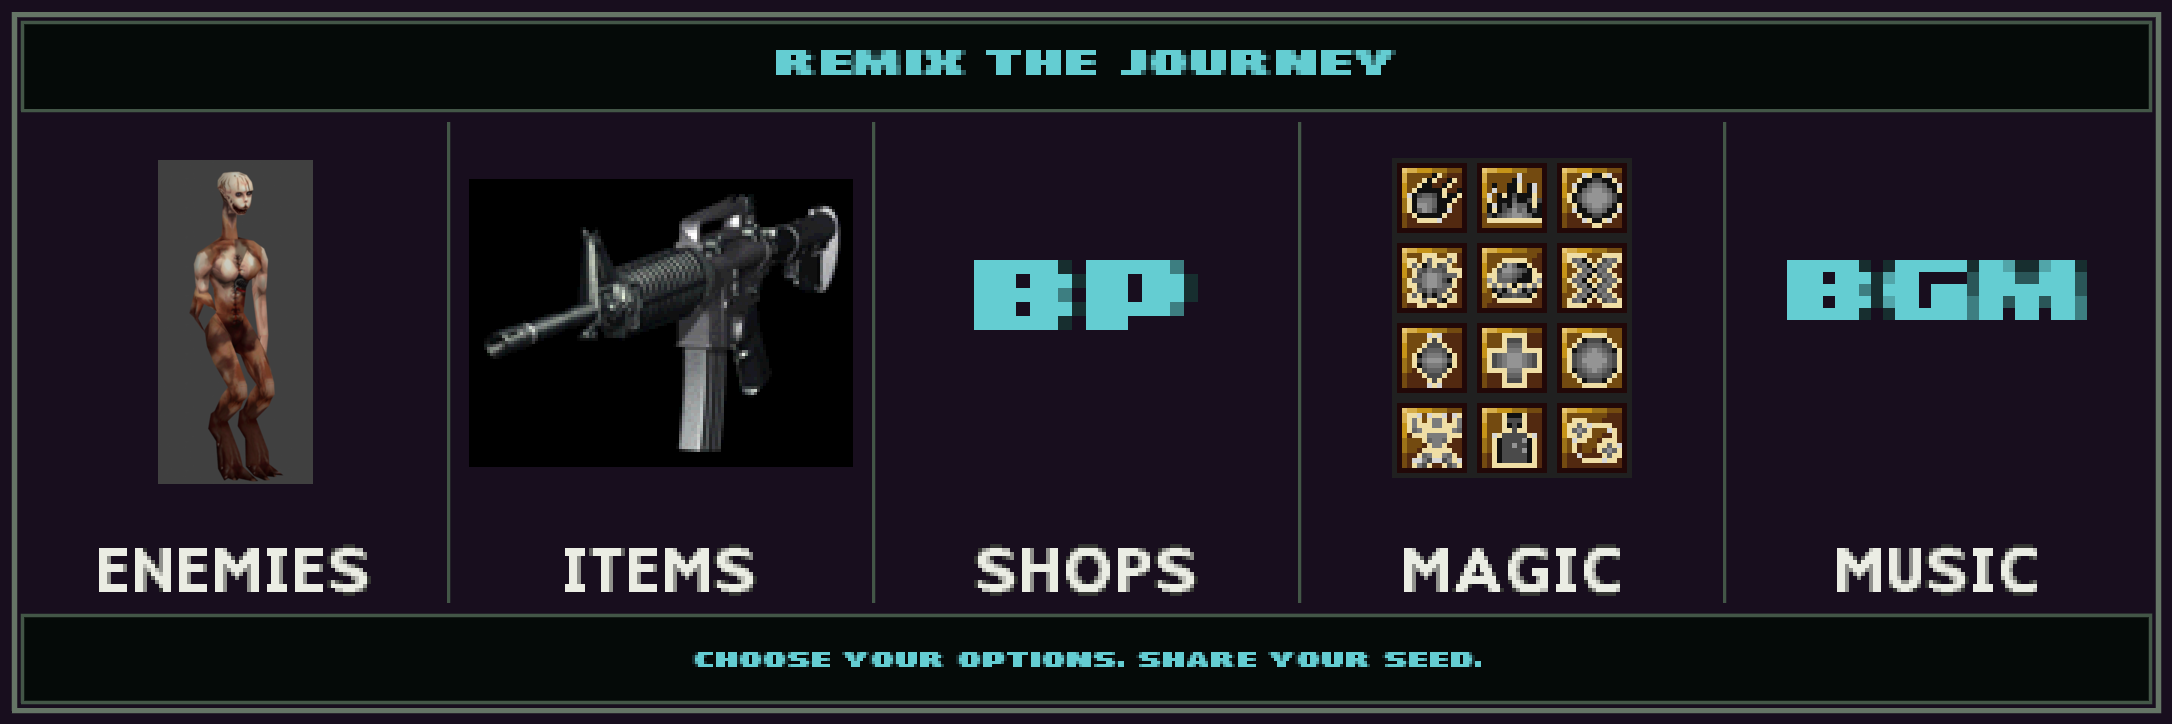
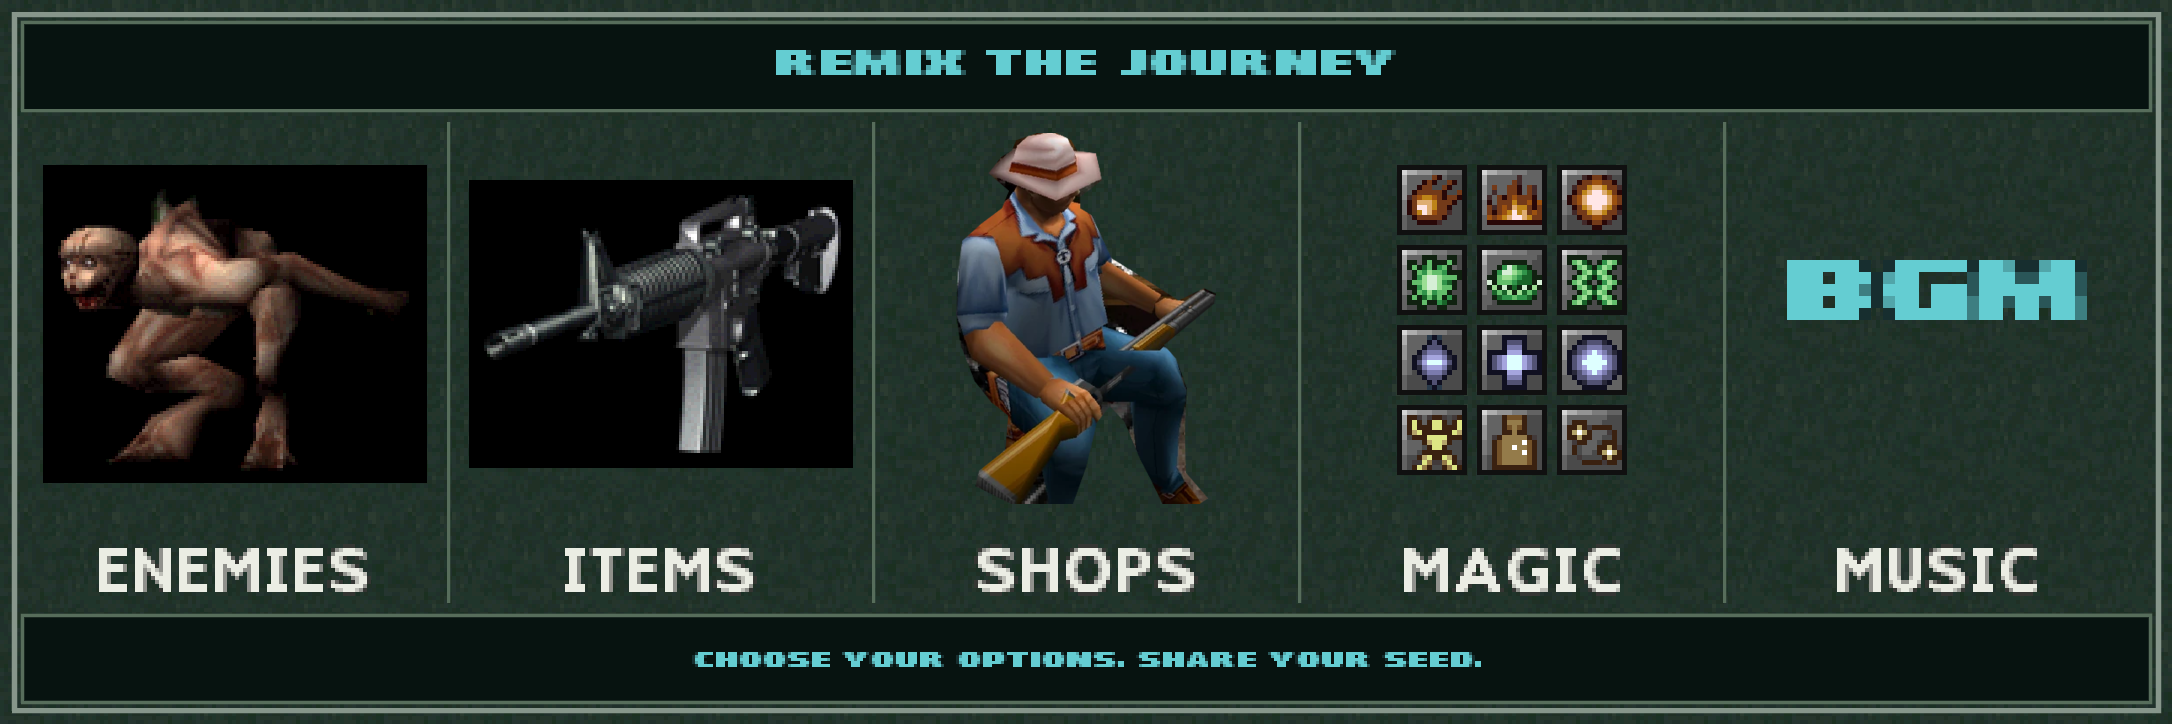
Refine feature panels with retail textures and school palettes

diff --git a/site/style.css b/site/style.css
@@ -1,11 +1,11 @@
 :root {
   color-scheme: dark;
-  --ink: #0c080f;
-  --panel: #210b28;
+  --ink: #08110e;
+  --panel: #203d32;
   --cyan: #65cbd0;
   --green: #2d650e;
   --white: #eeeee2;
-  --muted: #bcb6bd;
+  --muted: #b8c7bc;
   --steel: #747c6d;
 }
 
@@ -21,24 +21,24 @@ a:focus-visible, summary:focus-visible { outline: 3px solid var(--cyan); outline
 .skip-link { position: absolute; left: 24px; top: -100px; padding: .6rem 1rem; background: var(--panel); z-index: 5; }
 .skip-link:focus { top: 10px; }
 .chips { display: flex; flex-wrap: wrap; gap: 10px; margin: 18px 0 30px; }
-.chip { display: inline-flex; align-items: center; gap: .65em; padding: 5px 13px; min-height: 40px; border: 1px solid var(--steel); color: var(--white); text-decoration: none; font-size: .8rem; background: #17101b; }
-.chip:hover { background: #29202e; color: var(--white); }
+.chip { display: inline-flex; align-items: center; gap: .65em; padding: 5px 13px; min-height: 40px; border: 1px solid var(--steel); color: var(--white); text-decoration: none; font-size: .8rem; background: #14261f; }
+.chip:hover { background: #2a4437; color: var(--white); }
 .version { border-color: #607b4c; }
 .status-dot { width: 7px; height: 7px; background: #9ad36d; }
 .chip-detail { color: var(--muted); border-left: 1px solid #5d5b5c; padding-left: .7em; }
 .intro { margin: 0 0 38px; font-size: 1.13rem; line-height: 1.8; color: var(--muted); }
 .intro strong { color: var(--white); font-weight: 400; }
-.panel { position: relative; margin: 0 0 30px; padding: 28px 26px 22px; border: 2px solid var(--steel); background: var(--panel); box-shadow: inset 0 0 0 2px #121313, 0 3px 0 #020303; }
+.panel { position: relative; margin: 0 0 30px; padding: 28px 26px 22px; border: 2px solid var(--steel); background: linear-gradient(#07130d99, #07130d99), url("assets/menu-texture.png") repeat; background-size: auto, 128px 128px; box-shadow: inset 0 0 0 2px #121313, 0 3px 0 #020303; }
 .panel-title { display: table; position: relative; margin: -43px 0 14px; padding: 0 10px; background: var(--ink); color: var(--cyan); font: bold 1.25rem/1.45 'Courier New', Courier, monospace; text-shadow: 2px 2px #183b3e; }
 .panel-intro { margin: 0 0 17px; color: var(--muted); font-size: .87rem; }
 .download-list { margin: 0 -10px; }
-.download-row { display: grid; grid-template-columns: 24px minmax(0,1fr) auto; align-items: center; gap: 15px; min-height: 74px; padding: 11px 14px; border-top: 1px solid #59435c; color: var(--white); text-decoration: none; }
-.download-row:last-child { border-bottom: 1px solid #59435c; }
+.download-row { display: grid; grid-template-columns: 24px minmax(0,1fr) auto; align-items: center; gap: 15px; min-height: 74px; padding: 11px 14px; border-top: 1px solid #496555; color: var(--white); text-decoration: none; }
+.download-row:last-child { border-bottom: 1px solid #496555; }
 .download-row:hover, .download-row:focus-visible { background: var(--green); color: var(--white); }
 .cursor { font-size: 15px; color: #807887; }
 .download-row:hover .cursor, .download-row:focus-visible .cursor { color: var(--white); }
 .platform { font-weight: 700; font-size: 1.1rem; }
-.platform-detail { margin-left: 15px; color: #c7c0ca; font-weight: 400; font-size: .8rem; }
+.platform-detail { margin-left: 15px; color: #c4d0c7; font-weight: 400; font-size: .8rem; }
 .download-row:hover .platform-detail, .download-row:focus-visible .platform-detail { color: var(--white); }
 .download-format { font-size: .8rem; white-space: nowrap; }
 .download-format span { margin-left: 15px; color: var(--cyan); font-size: 1.2rem; }
@@ -49,22 +49,22 @@ a:focus-visible, summary:focus-visible { outline: 3px solid var(--cyan); outline
 .feature-art { display: block; width: 100%; height: auto; margin: 0 0 22px; }
 .feature-art.customization { margin-top: 28px; }
 .feature-list { margin: 0; }
-.feature-list > div { display: grid; grid-template-columns: 210px 1fr; padding: 14px 0; border-bottom: 1px solid #59435c; gap: 24px; }
+.feature-list > div { display: grid; grid-template-columns: 210px 1fr; padding: 14px 0; border-bottom: 1px solid #496555; gap: 24px; }
 .feature-list > div:first-child { padding-top: 0; }
 .feature-list dt { color: var(--white); font-size: .9rem; font-weight: bold; }
-.feature-list dd { margin: 0; max-width: 62ch; color: #c9c2cd; font-size: .87rem; }
+.feature-list dd { margin: 0; max-width: 62ch; color: #c4d0c7; font-size: .87rem; }
 .feature-note { color: var(--muted); font-size: .8rem; margin: 18px 0 0; }
 .setup { padding-bottom: 8px; }
-details { border-top: 1px solid #59435c; }
+details { border-top: 1px solid #496555; }
 details:first-of-type { border-top: 0; }
 summary { padding: 15px 4px; cursor: pointer; font-size: .88rem; }
 summary::marker { color: var(--cyan); }
 summary:hover { color: var(--cyan); }
-.answer { max-width: 80ch; padding: 0 22px 12px; color: #c9c2cd; font-size: .83rem; }
+.answer { max-width: 80ch; padding: 0 22px 12px; color: #c4d0c7; font-size: .83rem; }
 .answer p:first-child { margin-top: 0; }
 .answer ol { margin: 0; padding-left: 20px; }
 .answer li { margin-bottom: 8px; }
-pre { padding: 12px; overflow-x: auto; border: 1px solid #59435c; background: #100c13; }
+pre { padding: 12px; overflow-x: auto; border: 1px solid #496555; background: #100c13; }
 code { font: .8rem/1.6 'Courier New', Courier, monospace; }
 footer { margin: 32px 0 0; padding: 0 0 28px; color: var(--muted); font-size: .75rem; }
 footer p { margin: 5px 0; }

diff --git a/site/index.html b/site/index.html
@@ -3,7 +3,7 @@
 <head>
   <meta charset="utf-8">
   <meta name="viewport" content="width=device-width, initial-scale=1">
-  <meta name="theme-color" content="#210b28">
+  <meta name="theme-color" content="#203d32">
   <meta name="description" content="Download Randomized Eve II for Windows, macOS and Linux. Rediscover Parasite Eve II with randomized encounters, items, shops, magic, music and optional modifiers.">
   <title>Randomized Eve II — Downloads</title>
   <link rel="stylesheet" href="style.css">
@@ -64,7 +64,7 @@
         <div><dt>Supplies</dt><dd>Shuffle items and shops, choose what can appear, and configure your starting equipment.</dd></div>
         <div><dt>Magic &amp; music</dt><dd>Change your abilities and the soundtrack accompanying your journey.</dd></div>
       </dl>
-      <img class="feature-art customization" src="assets/feature-customization.png" width="2171" height="724" loading="lazy" alt="Make it your run: new armor, player models and gameplay modifiers. Customize your loadout and playstyle.">
+      <img class="feature-art customization" src="assets/feature-customization.png" width="2172" height="724" loading="lazy" alt="Make it your run: new armor, player models and gameplay modifiers. Customize your loadout and playstyle.">
       <dl class="feature-list">
         <div><dt>Characters &amp; armor</dt><dd>Try alternative player models and new armor with their own inventory artwork.</dd></div>
         <div><dt>Your rules</dt><dd>Choose your starting equipment, customize HUD colors, and enable optional gameplay modifiers.</dd></div>

diff --git a/docs/images/features.md b/docs/images/features.md
@@ -1,53 +1,31 @@
 # Feature illustrations
 
-Revised on 14 October 2026 to replace fictional generated objects with actual
-project/game resources at the user's request. Both PNGs are 2172 × 724 pixels.
-They are documentation compositions, not screenshots or additional game content.
+Updated on 14 October 2026. The two 2172 × 724 panels use original game resources
+and approved randomizer assets, assembled directly with ImageMagick. They are
+illustrations of the available features, not gameplay screenshots.
 
-## Current composition
+## Sources and treatment
 
-- `feature-randomization.png`: enemies, items, shops, magic, music and seed-based configuration.
-- `feature-customization.png`: new armor, alternate player models and optional gameplay modifiers.
-
-ImageMagick composes the sources directly. Pixel assets are enlarged with
-nearest-neighbor sampling; their colors, facial features and shapes are not
-regenerated. The Stranger model preview is cropped and reduced. Header, footer
-and feature labels use the original USA game font and its glyph metrics, as
-described in [the banner notes](README.md). The dark plum panels and restrained
-grey-green rules follow the approved banner's menu styling.
-
-## Sources
-
-The following paths refer to the development workspace from which this standalone
-source edition was prepared. They are provenance records, not build dependencies.
-No ROMs, font atlas or extraction tools are required to display these final PNGs.
-
-| Panel | Actual source | Treatment |
+| Element | Source | Treatment |
 | --- | --- | --- |
-| Enemies | `blender_pg/patio_stranger_0x13/patio-preview.png` | Preview render of the original Patio Stranger game model; crop and reduction. This is not an emulator screenshot. |
-| Items | `pe2randomizer/art/new-weapons-ak-20261006/references/m4a1-inventory.png` | Original retail M4A1 inventory image, enlarged 3×. It represents the weapon/item pool; it is not the parked AK variant. |
-| Shops | Original game font | `BP`, the game's shop currency abbreviation; no invented shop art. |
-| Magic | Native retail UI atlas, 4 bpp with CLUT `0x3C08` | Twelve original PE icons, UV rectangle `(176,128)` through `(223,191)`, enlarged 5×. Atlas originates from STAGE0.CDF folder 1, texture 3 and CLUT 4, rendered by the existing UI texture inspection tooling. |
-| Music | Original game font | `BGM`; no invented in-game music icon. |
-| New armor | `pe2randomizer/art/armor-restyle-20261005/approved-game-20261006/assets/015mini.png` | Approved Power Armor inventory image in its final game palette, enlarged 4×, including its separate helmet. This image was AI-assisted during the earlier armor art workflow. |
-| Player models | `pe2randomizer/art/male-players-20261007/game/kyle.png` and `rupert.png` | Approved game-ready Kyle and Rupert portrait images, enlarged 5× with their existing transparency preserved. These portraits were AI-assisted during the earlier portrait workflow. |
-| Gameplay modifiers | Crop from the initial generated customization illustration | Three abstract option sliders retained as a documentation motif. They are not a claim that the game contains these controls. |
+| Enemies | Retail USA STAGE0.CDF, folder 20611, TEX 1 / CLUT 0 | Brute Stranger bestiary image; 128 × 106 crop, excluding the padded white rows, enlarged 3×. |
+| Items | Original retail M4A1 inventory image | Enlarged 3× with nearest-neighbor sampling. |
+| Shops | Douglas in the screenshot supplied by the user on 14 October 2026 | Hand-traced alpha mask and crop, retaining the original pixels, hat and shotgun; reduced to fit the panel. |
+| Magic | Retail USA STAGE0.CDF, folder 1, TEX 3 / CLUT 4 | Original 4 bpp PE icons at UV (176,128), 48 × 64. Each school row uses its own CLUT: 0x3C04, 0x3C05, 0x3C06 and 0x3C07. These preserve the grey frames and colored centers. Zero palette words remain transparent. Enlarged 5×. |
+| Music | Original game font | BGM abbreviation. |
+| New armor | Approved Power Armor, `015mini.png` | Final game-palette image, including the separate helmet; enlarged 4×. AI-assisted artwork from the earlier approved armor workflow. |
+| Player models | Approved game-ready Jodie and Kyle portraits | Native 49 × 62 images, enlarged 5× with existing alpha preserved. AI-assisted artwork from the earlier approved portrait workflow. |
+| Gameplay modifiers | Retail USA STAGE0.CDF, folder 43, BG 0 | Original Scavenger Mode background, decoded from MDEC and enlarged from 320 × 240 to 512 × 384 with Lanczos filtering. No generated details. |
+| Menu background | Retail USA STAGE0.CDF, folder 1, TEX 3 / CLUT 4 | Native 32 × 32 tile at UV (0,0), 4 bpp, CLUT 0x3C0F. Saved as `menu-texture.png`; tiled at 4× scale and darkened for text contrast. The download page uses the same tile. |
 
-## Generation and revision history
+All labels use the original game font and glyph metrics described in the
+[banner notes](README.md). Pixel art is enlarged with nearest-neighbor sampling
+unless otherwise stated. There was no new AI image generation in this revision.
 
-The initial two illustrations were made with the built-in image generation tool,
-one call per image. Their prompts requested a simple PS1-style dark plum menu,
-thin grey-green borders, cyan headings, ivory pixel labels and muted green
-wireframe transitions. The first prompt specified five illustrated categories:
-enemies, items, shops, magic and music, with the footer “CHOOSE YOUR OPTIONS.
-SHARE YOUR SEED.” The second specified armor, player portraits and three abstract
-configuration sliders, with the footer “CUSTOMIZE YOUR LOADOUT AND PLAYSTYLE.”
+The menu texture and the two finished panels are self-contained documentation
+assets. Building the application does not need the source disc, extraction tools,
+font atlas or any other files from the development workspace.
 
-The user then requested real in-game/project art. The current revision uses
-direct compositing rather than asking the generator to redraw those assets.
-Only the abstract slider motif from the first generated customization image is
-retained. All lettering was replaced with the original game's bitmap glyphs.
-
-Both final panels were visually inspected for readable English labels, source
-fidelity, clipping and consistency with the README banner. The imagery does not
-advertise boss randomization, debug loadouts or exhaustive gameplay validation.
+The initial illustrations used generated placeholders. These have now been
+replaced with the sources above. Visual review checks the individual assets,
+palettes, alpha edges, readable labels and the final two-panel composition.

diff --git a/docs/KNOWN_ISSUES.md b/docs/KNOWN_ISSUES.md
@@ -6,8 +6,6 @@ The following investigations remain open from the working project:
 - **BUG-003:** reports of a black screen when leaving shooting-range levels 2 and
   higher. One armor HP-restoration path was fixed; a full reproduction/save-state
   diagnosis of all remaining reports is still needed.
-- **BUG-024:** a reported inactive enemy in the second Cafeteria fight. Spawn-zone
-  caching was corrected, but the exact reported encounter has not been proven fixed.
 - **REL-001:** original PlayStation hardware validation and legacy payload provenance
   review are not complete.
 - **BUG-016:** Windows installations in paths containing semicolons may fail before
